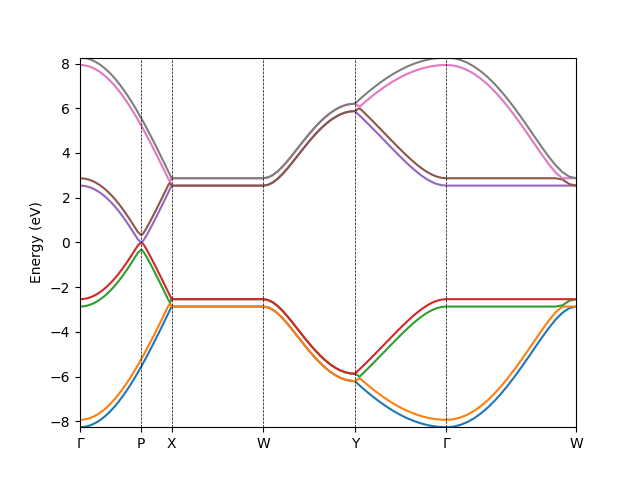
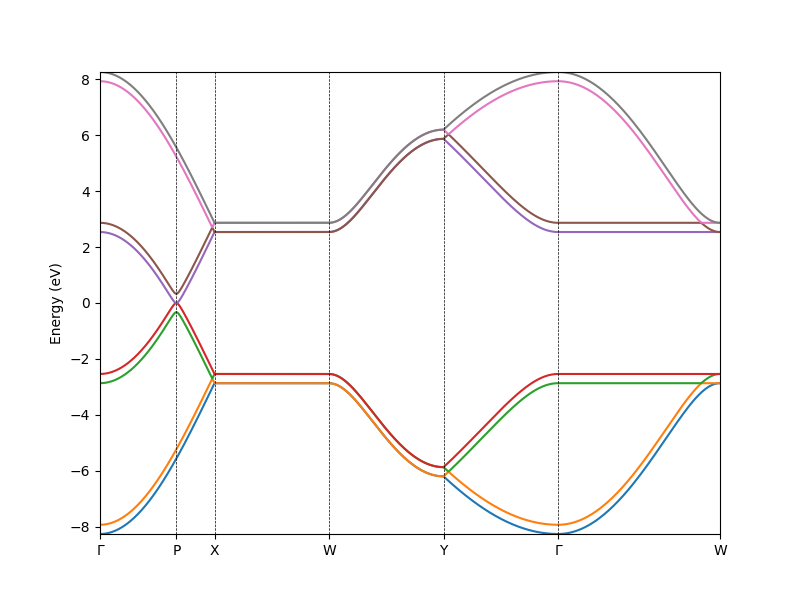
Add plot/fig parameters to plotters

diff --git a/src/tb_hamiltonian/hamiltonian.py b/src/tb_hamiltonian/hamiltonian.py
@@ -225,7 +225,15 @@ class TBHamiltonian:
                     Rx, Ry, Rz = r
                     file.write(f"{Rx:5d}{Ry:5d}{Rz:5d}{ai + 1:8d}{aj + 1:8d}{v:13.6f}{0:13.6f}\n")
 
-    def plot_matrix(self, R_index=4, start=0, end=-1, step=1):
+    def plot_matrix(
+        self,
+        R_index=4,
+        start=0,
+        end=-1,
+        step=1,
+        plot_params: dict | None = None,
+        fig_params: dict | None = None,
+    ):
         """Plot the Hamiltonian matrix.
 
         Parameters
@@ -238,10 +246,22 @@ class TBHamiltonian:
             End index of the plot.
         `step` : `int`, optional
             Step size for the ticks.
+        `plot_params` : `dict`, optional
+            Plot parameters.
+        `fig_params` : `dict`, optional
+            Figure parameters.
         """
         Hr = self[R_index].toarray()
         end = self.natoms if end < start else end
-        plt.imshow(Hr[start:end, start:end], cmap="inferno", interpolation="nearest")
+
+        if fig_params is None:
+            fig_params = {"figsize": (6, 4)}
+
+        if plot_params is None:
+            plot_params = {"cmap": "inferno", "interpolation": "nearest"}
+
+        plt.figure(figsize=fig_params.pop("figsize"))
+        plt.imshow(Hr[start:end, start:end], **plot_params)
         plt.xticks(
             np.arange(0, end - start, step),
             [str(i) for i in np.arange(start, end, step) + 1],
@@ -251,10 +271,16 @@ class TBHamiltonian:
             [str(i) for i in np.arange(start, end, step) + 1],
         )
         plt.colorbar()
+
         if self.debug:
             plt.show()
 
-    def plot_grid(self, show_ticks=False, show_labels=False):
+    def plot_grid(
+        self,
+        show_ticks=False,
+        show_labels=False,
+        fig_params: dict | None = None,
+    ):
         """Plot the search grid.
 
         Parameters
@@ -263,19 +289,23 @@ class TBHamiltonian:
             Whether to show the grid ticks.
         `show_labels` : `bool`, optional
             Whether to show the atom labels.
+        `fig_params` : `dict`, optional
+            Figure parameters.
         """
         if not self.grid:
             return "Grid not yet generated. Run the `build` method first."
 
-        _, ax = plt.subplots()
-        ax.set_aspect("equal")
+        if fig_params is None:
+            fig_params = {"figsize": (6, 4)}
+
+        plt.figure(figsize=fig_params.pop("figsize"))
 
         gxs = self.structure.cell.lengths()[0] / self.ngx
         gys = self.structure.cell.lengths()[1] / self.ngy
 
         for gy in range(self.ngy):
             for gx in range(self.ngx):
-                ax.add_patch(
+                plt.gca().add_patch(
                     Rectangle(
                         (gx * gxs, gy * gys),
                         gxs,
@@ -286,43 +316,64 @@ class TBHamiltonian:
                     )
                 )
 
-        ax.set_xlim(0, self.structure.cell.lengths()[0])
-        ax.set_ylim(0, self.structure.cell.lengths()[1])
+        plt.xlim(0, self.structure.cell.lengths()[0])
+        plt.ylim(0, self.structure.cell.lengths()[1])
 
         if show_ticks:
-            ax.set_xticks(np.arange(0, self.structure.cell.lengths()[0], gxs))
-            ax.set_yticks(np.arange(0, self.structure.cell.lengths()[1], gys))
+            plt.xticks(np.arange(0, self.structure.cell.lengths()[0], gxs))
+            plt.yticks(np.arange(0, self.structure.cell.lengths()[1], gys))
         else:
-            ax.set_xticks([])
-            ax.set_yticks([])
+            plt.xticks([])
+            plt.yticks([])
 
         inter_layer_height = 0.5 * self.structure.cell.lengths()[2]
 
         for atom in self.structure:
             x, y, z = atom.position
             if z < inter_layer_height:
-                ax.plot(x, y, "o", color="blue")
+                plt.plot(x, y, "o", color="blue")
                 if show_labels:
-                    ax.text(x, y - 0.1, atom.index, fontsize=12, ha="center", va="center")
+                    plt.text(x, y - 0.1, atom.index, fontsize=12, ha="center", va="center")
             else:
-                ax.plot(x + 0.05, y, "o", color="red")
+                plt.plot(x + 0.05, y, "o", color="red")
                 if show_labels:
-                    ax.text(x, y + 0.1, atom.index, fontsize=12, ha="center", va="center")
+                    plt.text(x, y + 0.1, atom.index, fontsize=12, ha="center", va="center")
 
         if self.debug:
             plt.show()
 
-    def plot_potential(self):
-        """Plot the potential over the atoms."""
+    def plot_potential(
+        self,
+        plot_params: dict | None = None,
+        fig_params: dict | None = None,
+    ):
+        """Plot the potential over the atoms.
+
+        Parameters
+        ----------
+        `plot_params` : `dict`, optional
+            Plot parameters.
+        `fig_params` : `dict`, optional
+            Figure parameters.
+        """
         scaled = self.structure.get_scaled_positions()
         x, y = scaled[:, 0], scaled[:, 1]
         V = np.zeros(self.natoms)
         for ai in range(self.natoms):
             V[ai] = self[4][ai, ai]
-        plt.scatter(x, y, c=V, cmap="rainbow", s=20)
+
+        if fig_params is None:
+            fig_params = {"figsize": (6, 4)}
+
+        if plot_params is None:
+            plot_params = {"cmap": "rainbow", "s": 20}
+
+        plt.figure(figsize=fig_params.pop("figsize"))
+        plt.scatter(x, y, c=V, **plot_params)
         plt.xlabel("x")
         plt.ylabel("y")
         plt.title("On-site potential")
+
         if self.debug:
             plt.show()
 
@@ -335,6 +386,9 @@ class TBHamiltonian:
         sparse_solver_params: dict | None = None,
         use_mpi=False,
         savefig_path="bands.png",
+        mode="line",
+        plot_params: dict | None = None,
+        fig_params: dict | None = None,
     ):
         """Plot the band structure.
 
@@ -352,6 +406,14 @@ class TBHamiltonian:
             Parameters for the sparse solver.
         `use_mpi` : `bool`, optional
             Whether to use the MPI parallelization.
+        `savefig_path` : `str`, optional
+            Path to save the figure.
+        `mode` : `str`, optional
+            Plotting mode: "line" or "scatter".
+        `plot_params` : `dict`, optional
+            Plot parameters.
+        `fig_params` : `dict`, optional
+            Figure parameters.
         """
         path = k_path.split()
         segments = np.array([high_sym_points[k] for k in path])
@@ -363,8 +425,24 @@ class TBHamiltonian:
             use_mpi,
         )
 
+        if fig_params is None:
+            fig_params = {
+                "figsize": (8, 6),
+                "ylim": (np.min(bands), np.max(bands)),
+            }
+
+        if plot_params is None:
+            plot_params = {}
+
+        plt.figure(figsize=fig_params.pop("figsize"))
+
         for band in bands.T:
-            plt.plot(distances, band)
+            if mode == "line":
+                plt.plot(distances, band, **plot_params)
+            elif mode == "scatter":
+                plt.scatter(distances, band, **plot_params)
+            else:
+                raise ValueError("Invalid mode. Choose 'line' or 'scatter'.")
 
         tick_positions = np.cumsum(
             np.linalg.norm(np.diff(np.array(segments), axis=0, prepend=0), axis=1)
@@ -373,11 +451,15 @@ class TBHamiltonian:
         for x in tick_positions[1:-1]:
             plt.axvline(x, c="k", ls="--", lw=0.5)
 
+        ax = plt.gca()
+        ax.set(**fig_params)
+
         plt.xlim(distances[0], distances[-1])
         plt.xticks(tick_positions, path)
-        plt.ylim(np.min(bands), np.max(bands))
+
         plt.ylabel("Energy (eV)")
         plt.savefig(savefig_path)
+
         if self.debug:
             plt.show()
 
